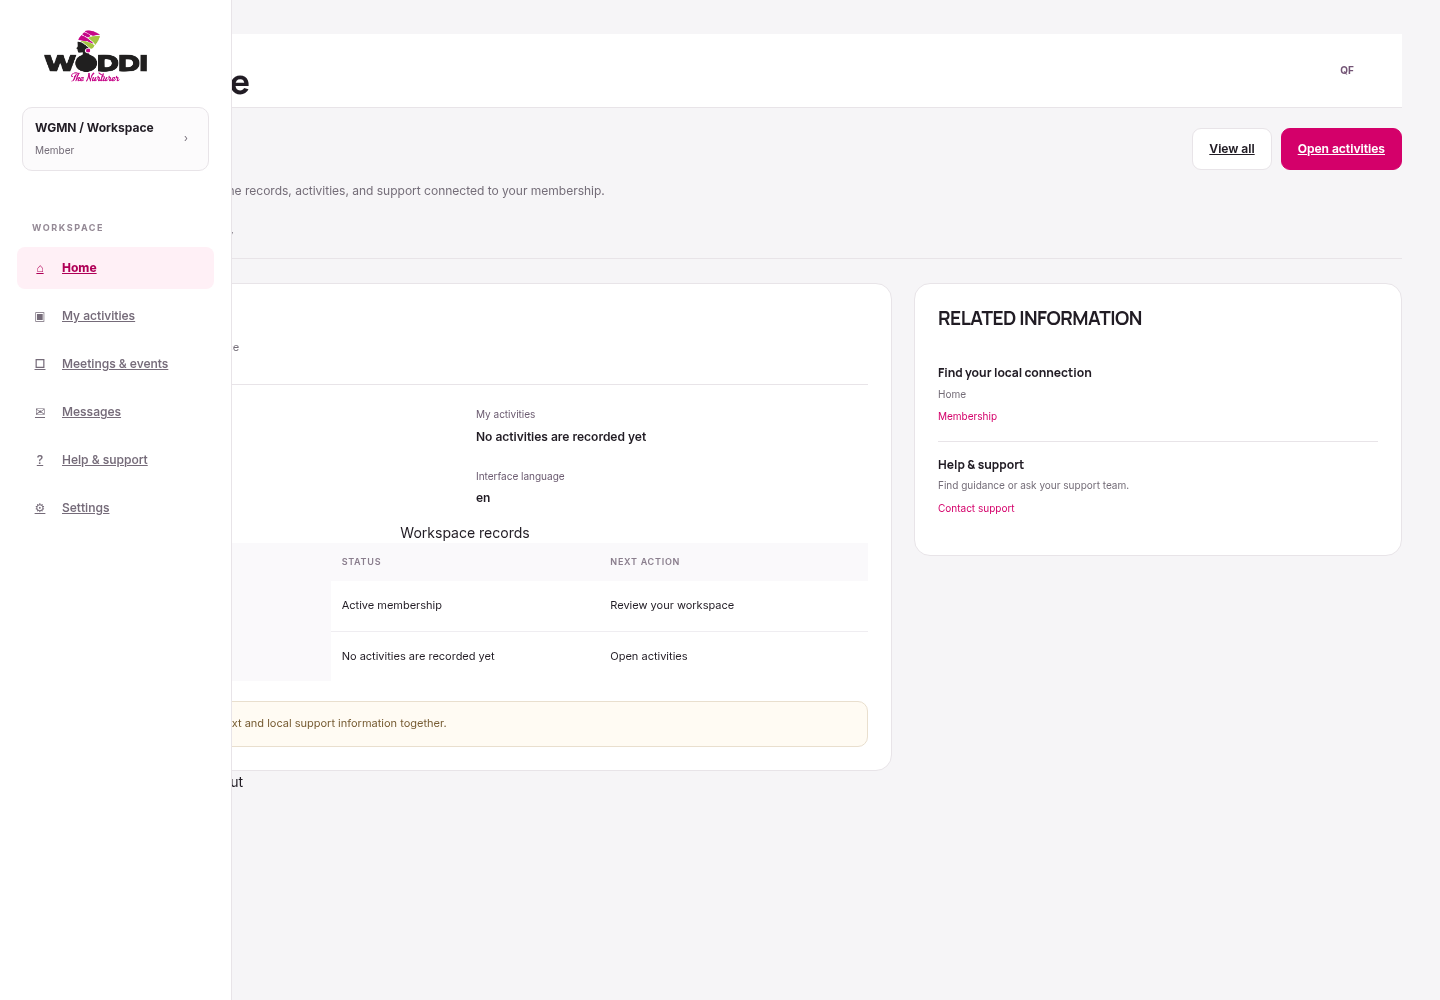
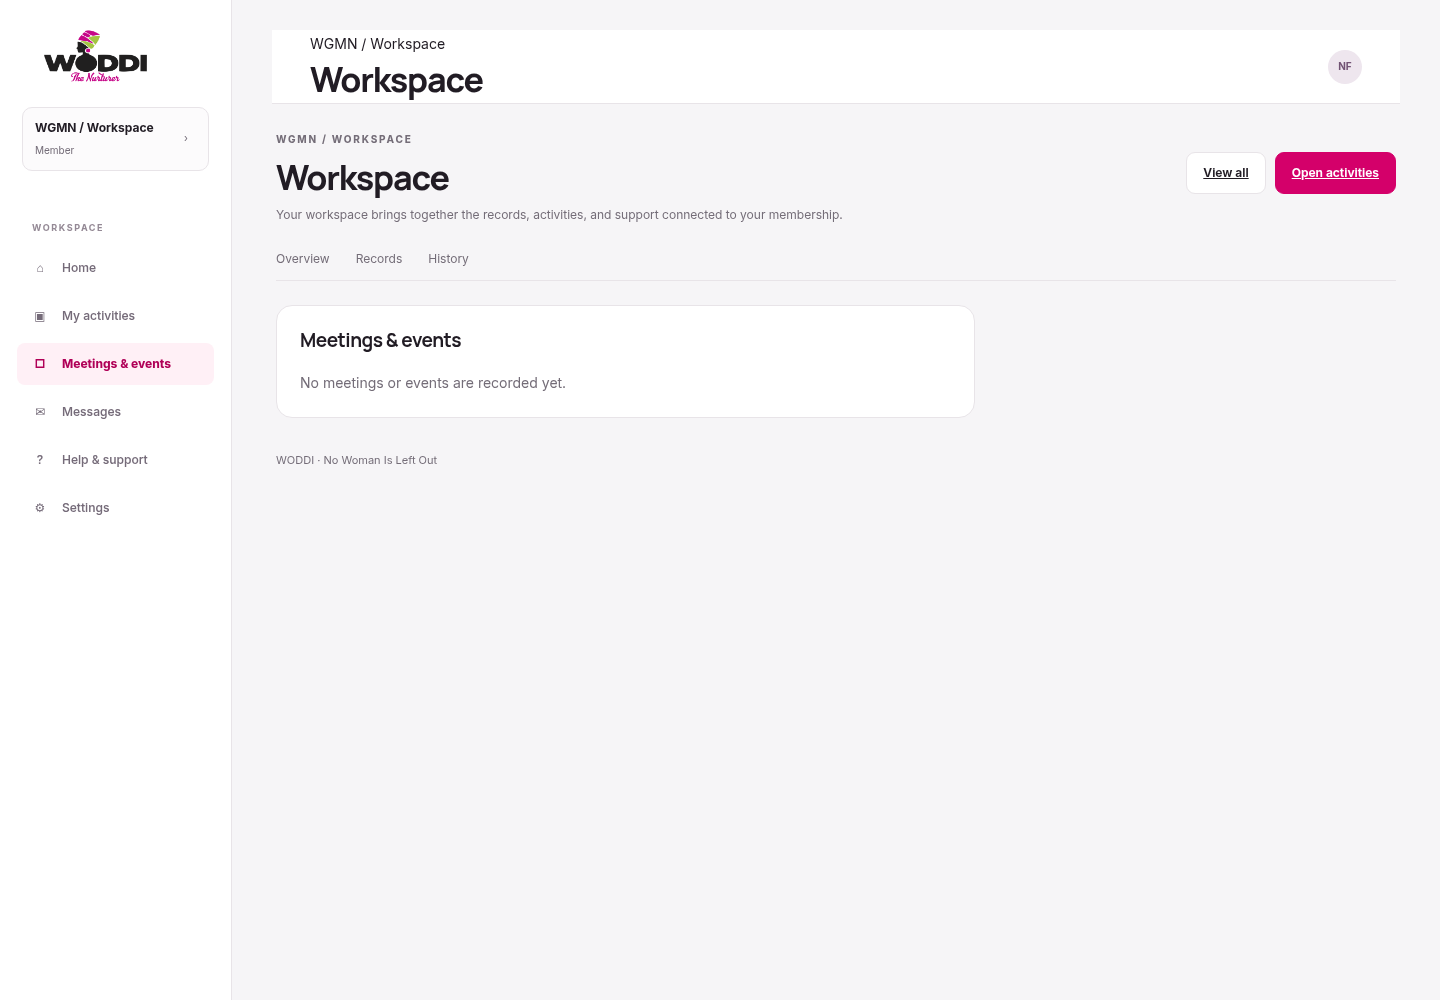
docs: record distinct navigation state evidence

diff --git a/accounts/test_stage3_repairs.py b/accounts/test_stage3_repairs.py
@@ -1,6 +1,7 @@
 from django.test import TestCase, override_settings
 from django.utils.html import escape
 from pathlib import Path
+import json
 
 import pyotp
 
@@ -209,6 +210,16 @@ class Stage3RepairTests(TestCase):
         section = text.split('## Current exact-head tab interaction evidence', 1)[1]
         self.assertNotIn('ee70048fe84e06854001e399d92b32ee5f55b2b2', section.split('## ', 1)[0])
         self.assertIn('Implementation candidate:', section)
+
+    def test_foundation_navigation_evidence_contains_distinct_auditable_states(self):
+        manifest = Path(__file__).parents[1] / 'docs' / 'stage-03-evidence' / 'manifests' / 'foundation-navigation-ecaa21b.json'
+        data = json.loads(manifest.read_text())
+        self.assertEqual(data['candidate'], 'ecaa21bdf8fa76a2e3c9a019ffee6faa95b22831')
+        self.assertEqual({row['state'] for row in data['captures']}, {'meetings', 'messages', 'home-reset'})
+        self.assertEqual(len(data['captures']), 9)
+        self.assertEqual(len({row['sha256'] for row in data['captures']}), 9)
+        for row in data['captures']:
+            self.assertTrue((Path(__file__).parents[1] / row['path']).is_file())
 
     def test_foundation_navigation_evidence_is_bound_to_final_candidate_and_comparisons(self):
         evidence_root = Path(__file__).parents[1]

diff --git a/docs/stage-03-delivery-evidence.md b/docs/stage-03-delivery-evidence.md
@@ -97,13 +97,13 @@ The current-head captures and comparisons are committed evidence for the repaire
 - Assertions: named destination panel becomes visible; Home returns to Overview and sets `aria-selected=true`; desktop/mobile document width does not exceed the viewport.
[1 lines of base64/hex data omitted]
 
-| Locale / viewport | State captures | Side-by-side comparison |
+| Locale / viewport | State captures | Side-by-side comparisons |
 |---|---|---|
-| English desktop 1440×1000 | [`meetings`](./stage-03-evidence/captures/foundation-nav-en-desktop-meetings-ecaa21b.png), [`messages`](./stage-03-evidence/captures/foundation-nav-en-desktop-messages-ecaa21b.png), [`home reset`](./stage-03-evidence/captures/foundation-nav-en-desktop-home-ecaa21b.png) | [`meetings`](./stage-03-evidence/comparisons/foundation-nav-en-desktop-meetings-ecaa21b.png) |
-| English mobile 390×844 | [`meetings`](./stage-03-evidence/captures/foundation-nav-en-mobile-meetings-ecaa21b.png), [`messages`](./stage-03-evidence/captures/foundation-nav-en-mobile-messages-ecaa21b.png), [`home reset`](./stage-03-evidence/captures/foundation-nav-en-mobile-home-ecaa21b.png) | [`meetings`](./stage-03-evidence/comparisons/foundation-nav-en-mobile-meetings-ecaa21b.png) |
-| Arabic RTL mobile 390×844 | [`meetings`](./stage-03-evidence/captures/foundation-nav-ar-mobile-meetings-ecaa21b.png) | [`meetings`](./stage-03-evidence/comparisons/foundation-nav-ar-mobile-meetings-ecaa21b.png) |
+| English desktop 1440×1000 | [`meetings`](./stage-03-evidence/captures/foundation-nav-en-desktop-meetings-ecaa21b.png), [`messages`](./stage-03-evidence/captures/foundation-nav-en-desktop-messages-ecaa21b.png), [`home reset`](./stage-03-evidence/captures/foundation-nav-en-desktop-home-reset-ecaa21b.png) | [`meetings`](./stage-03-evidence/comparisons/foundation-nav-en-desktop-meetings-ecaa21b-comparison.png), [`messages`](./stage-03-evidence/comparisons/foundation-nav-en-desktop-messages-ecaa21b-comparison.png), [`home reset`](./stage-03-evidence/comparisons/foundation-nav-en-desktop-home-reset-ecaa21b-comparison.png) |
+| English mobile 390×844 | [`meetings`](./stage-03-evidence/captures/foundation-nav-en-mobile-meetings-ecaa21b.png), [`messages`](./stage-03-evidence/captures/foundation-nav-en-mobile-messages-ecaa21b.png), [`home reset`](./stage-03-evidence/captures/foundation-nav-en-mobile-home-reset-ecaa21b.png) | [`meetings`](./stage-03-evidence/comparisons/foundation-nav-en-mobile-meetings-ecaa21b-comparison.png), [`messages`](./stage-03-evidence/comparisons/foundation-nav-en-mobile-messages-ecaa21b-comparison.png), [`home reset`](./stage-03-evidence/comparisons/foundation-nav-en-mobile-home-reset-ecaa21b-comparison.png) |
+| Arabic RTL mobile 390×844 | [`meetings`](./stage-03-evidence/captures/foundation-nav-ar-mobile-meetings-ecaa21b.png), [`messages`](./stage-03-evidence/captures/foundation-nav-ar-mobile-messages-ecaa21b.png), [`home reset`](./stage-03-evidence/captures/foundation-nav-ar-mobile-home-reset-ecaa21b.png) | [`meetings`](./stage-03-evidence/comparisons/foundation-nav-ar-mobile-meetings-ecaa21b-comparison.png), [`messages`](./stage-03-evidence/comparisons/foundation-nav-ar-mobile-messages-ecaa21b-comparison.png), [`home reset`](./stage-03-evidence/comparisons/foundation-nav-ar-mobile-home-reset-ecaa21b-comparison.png) |
 
-The recapture is bound to the exact public implementation head. Rex's versioned visual acceptance remains open; no deviation approval is claimed.
+Manifest: [`foundation-navigation-ecaa21b.json`](./stage-03-evidence/manifests/foundation-navigation-ecaa21b.json) records each state, viewport, SHA-256, and comparison. The recapture is bound to the exact public implementation head. Rex's versioned visual acceptance remains open; no deviation approval is claimed.
 
 ## Release status
 
